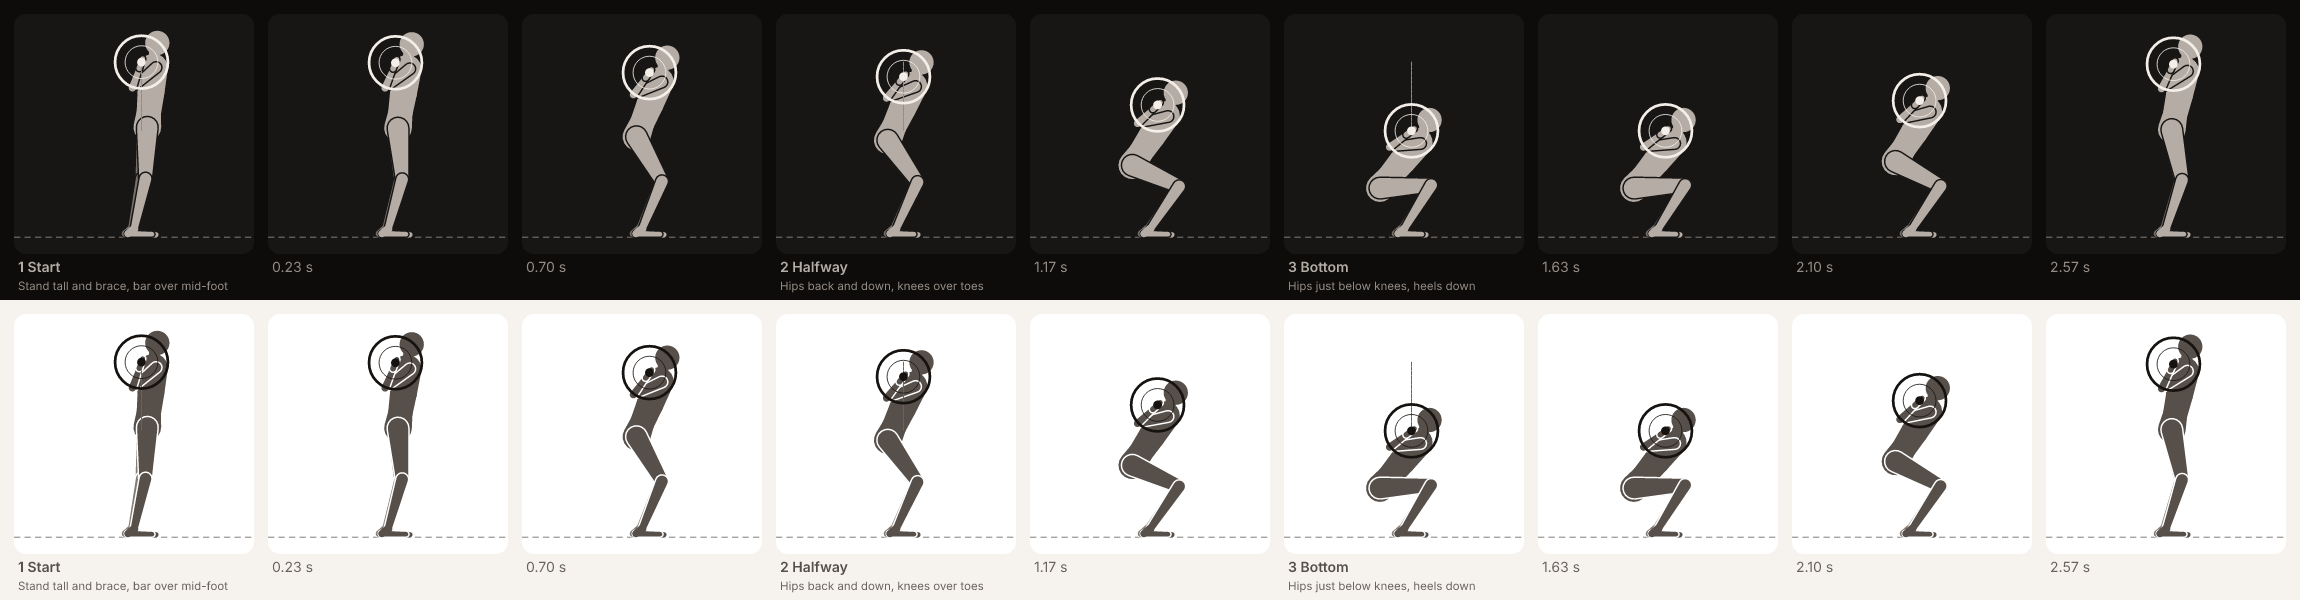
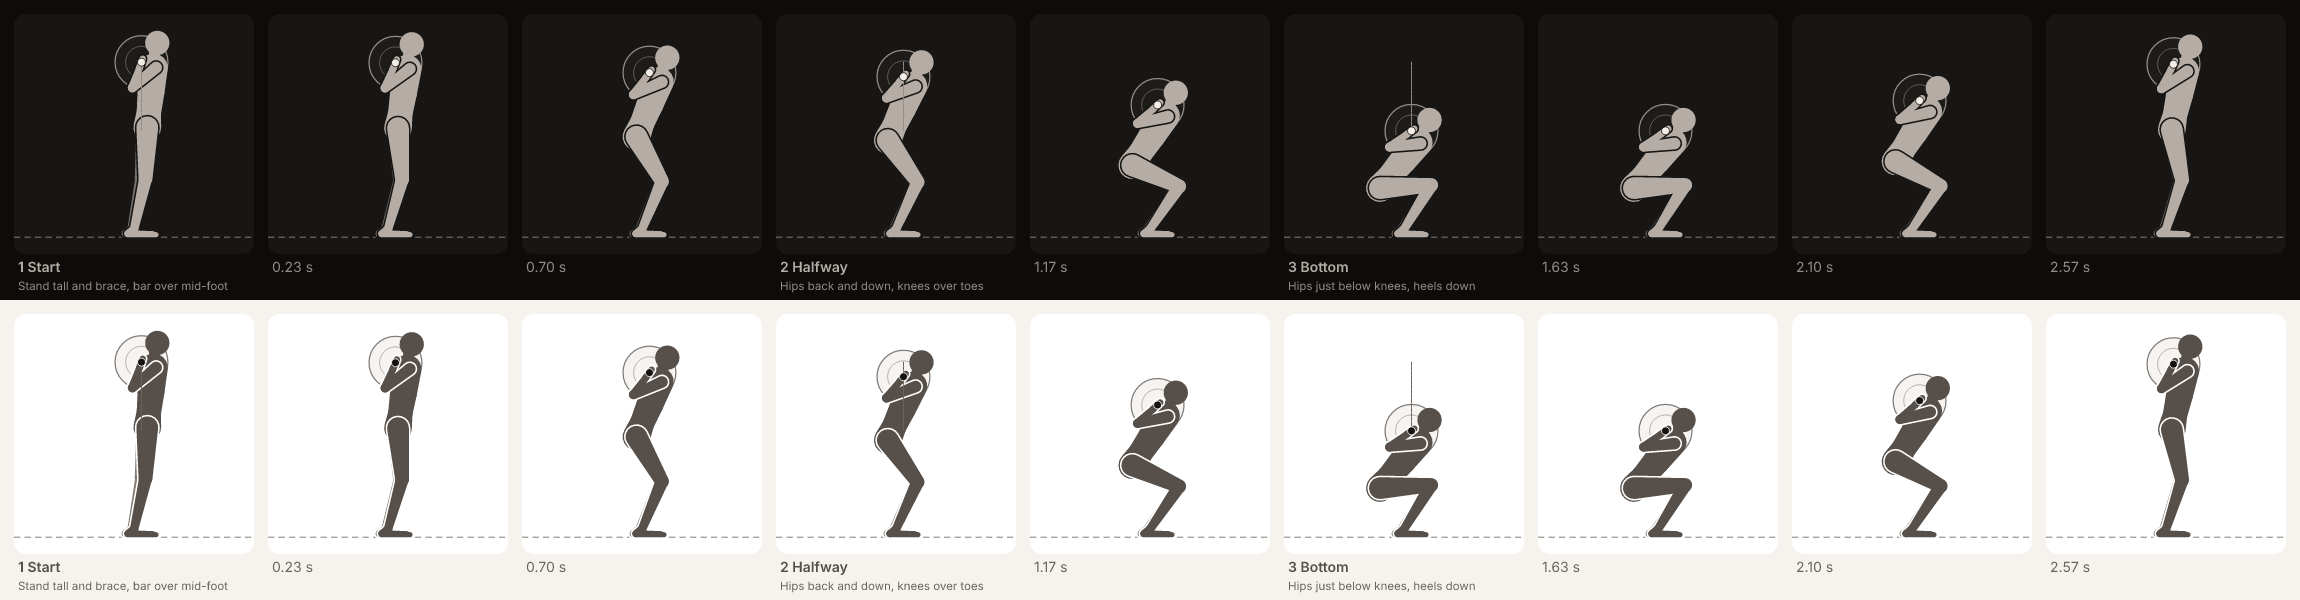
catalogue: soften barbell plates and draw limbs as seamless silhouettes
Side-view plates move behind the body as a soft disc and thin ring so the
head, arms and grip read at thumbnail size; the bar end stays in front.
Limb capsules share a group and draw all halos before fills, so joints
show no seams. Shared STROKE weights keep line widths consistent.
Re-rendered the back-squat preview.

Claude-Session: https://claude.ai/code/session_01WQGwPu3Uq9qS169xjbbsDx

diff --git a/packages/catalogue/src/figure/svg.ts b/packages/catalogue/src/figure/svg.ts
@@ -8,7 +8,7 @@ import type { PreparedGuide } from './pose';
 import { poseAt } from './pose';
 import { sampleTimes } from './keyframes';
 import { add, dist, scale, sub, v, type Vec } from './math';
-import { LAYERS, type Shape } from './props';
+import { LAYERS, STROKE, type Shape } from './props';
 import { GUIDE_CORNER_FRACTION, type GuideStyle } from './style';
 
 /** Square camera in world units. */
@@ -74,30 +74,61 @@ function pathOf(points: readonly Vec[], closed: boolean): string {
   return points.map((p, i) => `${i === 0 ? 'M' : 'L'}${f(p.x)} ${f(p.y)}`).join('') + (closed ? 'Z' : '');
 }
 
+const opacityAttr = (o: number | undefined): string => (o === undefined || o >= 1 ? '' : ` opacity="${f(o)}"`);
+
+/** A capsule's halo: its outline grown by `STROKE.halo` in the outline paint. */
+function capsuleHalo(s: Extract<Shape, { kind: 'capsule' }>, P: (p: Vec) => Vec, k: number, style: GuideStyle): string {
+  if (!s.outline) return '';
+  const c = style[s.outline];
+  return `<path d="${pathOf(capsuleOutline(s.a, s.b, s.ra, s.rb).map(P), true)}" fill="${c}" stroke="${c}" stroke-width="${f(2 * STROKE.halo * k)}" stroke-linejoin="round"/>`;
+}
+
 function shapeSvg(s: Shape, P: (p: Vec) => Vec, k: number, style: GuideStyle): string {
   switch (s.kind) {
     case 'line': {
       const a = P(s.a);
       const b = P(s.b);
       const dash = s.dash ? ` stroke-dasharray="${s.dash.map((d) => f(d * k)).join(' ')}"` : '';
-      return `<line x1="${f(a.x)}" y1="${f(a.y)}" x2="${f(b.x)}" y2="${f(b.y)}" stroke="${style[s.paint]}" stroke-width="${f(s.width * k)}" stroke-linecap="round"${dash}/>`;
+      return `<line x1="${f(a.x)}" y1="${f(a.y)}" x2="${f(b.x)}" y2="${f(b.y)}" stroke="${style[s.paint]}" stroke-width="${f(s.width * k)}" stroke-linecap="round"${dash}${opacityAttr(s.opacity)}/>`;
     }
     case 'circle': {
       const c = P(s.c);
       const fill = s.fill ? style[s.fill] : 'none';
-      const stroke = s.stroke ? ` stroke="${style[s.stroke]}" stroke-width="${f((s.width ?? 0.005) * k)}"` : '';
-      return `<circle cx="${f(c.x)}" cy="${f(c.y)}" r="${f(s.r * k)}" fill="${fill}"${stroke}/>`;
+      const stroke = s.stroke ? ` stroke="${style[s.stroke]}" stroke-width="${f((s.width ?? STROKE.edge) * k)}"` : '';
+      return `<circle cx="${f(c.x)}" cy="${f(c.y)}" r="${f(s.r * k)}" fill="${fill}"${stroke}${opacityAttr(s.opacity)}/>`;
     }
     case 'poly': {
       const fill = s.fill ? style[s.fill] : 'none';
-      const stroke = s.stroke ? ` stroke="${style[s.stroke]}" stroke-width="${f((s.width ?? 0.005) * k)}" stroke-linejoin="round"` : '';
-      return `<path d="${pathOf(s.points.map(P), true)}" fill="${fill}"${stroke}/>`;
+      const stroke = s.stroke ? ` stroke="${style[s.stroke]}" stroke-width="${f((s.width ?? STROKE.edge) * k)}" stroke-linejoin="round"` : '';
+      return `<path d="${pathOf(s.points.map(P), true)}" fill="${fill}"${stroke}${opacityAttr(s.opacity)}/>`;
     }
-    case 'capsule': {
-      const outline = s.outline ? ` stroke="${style[s.outline]}" stroke-width="${f(0.007 * k)}" stroke-linejoin="round"` : '';
-      return `<path d="${pathOf(capsuleOutline(s.a, s.b, s.ra, s.rb).map(P), true)}" fill="${style[s.paint]}"${outline}/>`;
+    case 'capsule':
+      return `<path d="${pathOf(capsuleOutline(s.a, s.b, s.ra, s.rb).map(P), true)}" fill="${style[s.paint]}"/>`;
+  }
+}
+
+/**
+ * Shapes of one layer in draw order. A capsule group (one limb) is drawn
+ * where its first capsule appears: all of its halos, then all of its fills,
+ * so the limb reads as one smooth silhouette with no seams at the joints.
+ */
+function layerSvg(shapes: readonly Shape[], P: (p: Vec) => Vec, k: number, style: GuideStyle): string[] {
+  const out: string[] = [];
+  const done = new Set<string>();
+  for (const s of shapes) {
+    if (s.kind === 'capsule' && s.group !== undefined) {
+      if (done.has(s.group)) continue;
+      done.add(s.group);
+      const members = shapes.filter((m): m is Extract<Shape, { kind: 'capsule' }> => m.kind === 'capsule' && m.group === s.group);
+      for (const m of members) out.push(capsuleHalo(m, P, k, style));
+      for (const m of members) out.push(shapeSvg(m, P, k, style));
+    } else if (s.kind === 'capsule') {
+      out.push(capsuleHalo(s, P, k, style), shapeSvg(s, P, k, style));
+    } else {
+      out.push(shapeSvg(s, P, k, style));
     }
   }
+  return out.filter((x) => x !== '');
 }
 
 /** Frame content in pixel coordinates (0..px), without the `<svg>` wrapper. */
@@ -116,14 +147,14 @@ export function renderFrameBody(pose: Pose, opts: RenderOptions): string {
   const dash = FLOOR_DASH;
   const shift = ((((pose.facing === 'left' ? -offset : offset) % dash) + dash) % dash) * k;
   parts.push(
-    `<line x1="${f(-dash * k + shift)}" y1="${f(floorY)}" x2="${f(px + dash * k)}" y2="${f(floorY)}" stroke="${style.trace}" stroke-width="${f(0.004 * k)}" stroke-dasharray="${f(dash * 0.6 * k)} ${f(dash * 0.4 * k)}"/>`,
+    `<line x1="${f(-dash * k + shift)}" y1="${f(floorY)}" x2="${f(px + dash * k)}" y2="${f(floorY)}" stroke="${style.trace}" stroke-width="${f(STROKE.hair * k)}" stroke-dasharray="${f(dash * 0.6 * k)} ${f(dash * 0.4 * k)}"/>`,
   );
   for (const layer of LAYERS) {
     // The static path overlay sits above the body and below front implements, so it stays visible.
     if (layer === 'front' && opts.trace && opts.trace.length > 1) {
       parts.push(`<path d="${pathOf(opts.trace.map(P), false)}" fill="none" stroke="${style.trace}" stroke-width="${f(0.005 * k)}" stroke-dasharray="${f(0.012 * k)} ${f(0.01 * k)}" stroke-linecap="round"/>`);
     }
-    for (const s of pose.shapes) if (s.layer === layer) parts.push(shapeSvg(s, P, k, style));
+    parts.push(...layerSvg(pose.shapes.filter((s) => s.layer === layer), P, k, style));
   }
   parts.push('</g>');
   return parts.join('');

diff --git a/packages/catalogue/src/figure/props.ts b/packages/catalogue/src/figure/props.ts
@@ -12,12 +12,32 @@ export type Paint = 'implement' | 'frame' | 'frameFill' | 'trace' | 'cable' | 'n
 export const LAYERS = ['back', 'far', 'mid', 'body', 'near', 'front'] as const;
 export type Layer = (typeof LAYERS)[number];
 
+/**
+ * Stroke weights in body heights, shared by every prop and the body so line
+ * weights stay consistent across guides.
+ */
+export const STROKE = {
+  /** Knock-out halo around a limb silhouette (drawn outside its edge). */
+  halo: 0.0075,
+  /** Outlines of pads, frames and plates. */
+  edge: 0.006,
+  /** Fine detail: plate hubs, floor, cable. */
+  hair: 0.004,
+  /** Bars, poles and handles seen side-on. */
+  bar: 0.014,
+} as const;
+
+/** `opacity` (0–1) softens secondary detail such as plates; colours still come only from tokens. */
 export type Shape =
-  | { kind: 'line'; layer: Layer; a: Vec; b: Vec; width: number; paint: Paint; dash?: readonly number[] }
-  | { kind: 'circle'; layer: Layer; c: Vec; r: number; fill?: Paint; stroke?: Paint; width?: number }
-  | { kind: 'poly'; layer: Layer; points: readonly Vec[]; fill?: Paint; stroke?: Paint; width?: number }
-  /** Tapered capsule (two radii); `outline` knocks it out from shapes behind. */
-  | { kind: 'capsule'; layer: Layer; a: Vec; b: Vec; ra: number; rb: number; paint: Paint; outline?: Paint };
+  | { kind: 'line'; layer: Layer; a: Vec; b: Vec; width: number; paint: Paint; dash?: readonly number[]; opacity?: number }
+  | { kind: 'circle'; layer: Layer; c: Vec; r: number; fill?: Paint; stroke?: Paint; width?: number; opacity?: number }
+  | { kind: 'poly'; layer: Layer; points: readonly Vec[]; fill?: Paint; stroke?: Paint; width?: number; opacity?: number }
+  /**
+   * Tapered capsule (two radii); `outline` knocks it out from shapes behind
+   * with a halo. Capsules sharing a `group` (one limb) are drawn as one
+   * silhouette: every halo first, then every fill, so joints show no seams.
+   */
+  | { kind: 'capsule'; layer: Layer; a: Vec; b: Vec; ra: number; rb: number; paint: Paint; outline?: Paint; group?: string };
 
 export interface Collider {
   propId: string;
@@ -60,14 +80,20 @@ export function frontBarbellShapes(id: string, c: Vec, plates: keyof typeof PLAT
   return { id, shapes, colliders: [], solidBottoms: r > 0 ? [c.y - r] : [] };
 }
 
+/**
+ * Side-view barbell: the bar end-on (a solid dot, in front of everything) and
+ * its plates. The plates are drawn *behind* the body as a soft disc with a
+ * thin ring, so the head, arms and grip stay readable at thumbnail size; the
+ * bar dot still shows exactly where the bar sits.
+ */
 export function barbellShapes(id: string, c: Vec, plates: keyof typeof PLATE_RADIUS): PropGeometry {
   const r = PLATE_RADIUS[plates];
   const shapes: Shape[] = [];
   if (r > 0) {
-    shapes.push({ kind: 'circle', layer: 'front', c, r, stroke: 'implement', width: 0.013 });
-    shapes.push({ kind: 'circle', layer: 'front', c, r: r * 0.62, stroke: 'implement', width: 0.004 });
+    shapes.push({ kind: 'circle', layer: 'back', c, r, fill: 'frameFill', stroke: 'implement', width: STROKE.edge, opacity: 0.55 });
+    shapes.push({ kind: 'circle', layer: 'back', c, r: r * 0.6, stroke: 'implement', width: STROKE.hair, opacity: 0.35 });
   }
-  shapes.push({ kind: 'circle', layer: 'front', c, r: 0.021, fill: 'implement' });
+  shapes.push({ kind: 'circle', layer: 'front', c, r: 0.019, fill: 'implement', stroke: 'background', width: STROKE.hair });
   return { id, shapes, colliders: [], solidBottoms: r > 0 ? [c.y - r] : [] };
 }
 

diff --git a/packages/catalogue/src/figure/pose.ts b/packages/catalogue/src/figure/pose.ts
@@ -304,18 +304,20 @@ export function poseAt(prepared: PreparedGuide, t: number): Pose {
     const layer = view === 'side' && side === 'Far' ? 'far' : 'near';
     const paint = layer === 'far' ? 'farBody' : 'nearBody';
     const rr = R.radius;
-    shapes.push({ kind: 'capsule', layer, a: hipPt, b: knee, ra: rr.thighHip, rb: rr.thighKnee, paint, outline: 'background' });
-    shapes.push({ kind: 'capsule', layer, a: knee, b: ankle, ra: rr.shankKnee, rb: rr.shankAnkle, paint, outline: 'background' });
+    const group = `leg${side}`;
+    const limbCap = (a: Vec, b: Vec, ra: number, rb: number): Shape => ({ kind: 'capsule', layer, a, b, ra, rb, paint, outline: 'background', group });
+    shapes.push(limbCap(hipPt, knee, rr.thighHip, rr.thighKnee));
+    shapes.push(limbCap(knee, ankle, rr.shankKnee, rr.shankAnkle));
     if (view === 'side') {
       const heelTop = inFoot(ankle, u, n, R.foot.heel + 0.012, -R.foot.ankleHeight + rr.foot);
       const ballTop = inFoot(ankle, u, n, R.foot.ball, -R.foot.ankleHeight + rr.foot * 0.85);
       const toeDir = scale(sub(toe, ball), 1 / Math.max(1e-9, dist(toe, ball)));
       const toeTop = add(add(toe, scale(toeDir, -rr.foot * 0.5)), scale(perpCcw(toeDir), Math.sign(toeDir.x || 1) * rr.foot * 0.7));
-      shapes.push({ kind: 'capsule', layer, a: ballTop, b: toeTop, ra: rr.foot * 0.85, rb: rr.foot * 0.7, paint });
-      shapes.push({ kind: 'capsule', layer, a: heelTop, b: ballTop, ra: rr.foot, rb: rr.foot * 0.85, paint, outline: 'background' });
-      shapes.push({ kind: 'capsule', layer, a: ankle, b: heelTop, ra: rr.shankAnkle, rb: rr.foot, paint });
+      shapes.push(limbCap(ballTop, toeTop, rr.foot * 0.85, rr.foot * 0.7));
+      shapes.push(limbCap(heelTop, ballTop, rr.foot, rr.foot * 0.85));
+      shapes.push(limbCap(ankle, heelTop, rr.shankAnkle, rr.foot));
     } else {
-      shapes.push({ kind: 'capsule', layer, a: ankle, b: add(ankle, v(0.012 * sign, -R.foot.ankleHeight + rr.foot)), ra: rr.shankAnkle, rb: rr.foot * 1.4, paint, outline: 'background' });
+      shapes.push(limbCap(ankle, add(ankle, v(0.012 * sign, -R.foot.ankleHeight + rr.foot)), rr.shankAnkle, rr.foot * 1.4));
     }
   }
 
@@ -367,9 +369,10 @@ export function poseAt(prepared: PreparedGuide, t: number): Pose {
     const rr = R.radius;
     const gripDir = scale(sub(grip, wrist), 1 / Math.max(1e-9, dist(grip, wrist)));
     const handEnd = add(grip, scale(gripDir, (R.hand - R.grip) * kf));
-    shapes.push({ kind: 'capsule', layer, a: shoulder, b: elbow, ra: rr.upperArmShoulder, rb: rr.upperArmElbow, paint, outline: 'background' });
-    shapes.push({ kind: 'capsule', layer, a: elbow, b: wrist, ra: rr.forearmElbow, rb: rr.forearmWrist, paint, outline: 'background' });
-    shapes.push({ kind: 'capsule', layer, a: wrist, b: handEnd, ra: rr.hand, rb: rr.hand * 0.9, paint, outline: 'background' });
+    const group = `arm${side}`;
+    shapes.push({ kind: 'capsule', layer, a: shoulder, b: elbow, ra: rr.upperArmShoulder, rb: rr.upperArmElbow, paint, outline: 'background', group });
+    shapes.push({ kind: 'capsule', layer, a: elbow, b: wrist, ra: rr.forearmElbow, rb: rr.forearmWrist, paint, outline: 'background', group });
+    shapes.push({ kind: 'capsule', layer, a: wrist, b: handEnd, ra: rr.hand, rb: rr.hand * 0.9, paint, outline: 'background', group });
   }
 
   // 4. Props that hang from the hands, and the cable.

diff --git a/packages/catalogue/test/figure.test.ts b/packages/catalogue/test/figure.test.ts
@@ -347,6 +347,17 @@ describe('SVG output and style', () => {
     expect(a.includes('<text')).toBe(false);
   });
 
+  it('draws side-view plates behind the body and each limb as one seamless group', () => {
+    const pose = poseAt(prepareGuide(squatEntryGuide()), 0);
+    const plates = pose.shapes.filter((s) => s.kind === 'circle' && s.r > 0.07);
+    expect(plates.length).toBeGreaterThan(0);
+    expect(plates.every((s) => s.layer === 'back')).toBe(true);
+    const limbs = pose.shapes.filter((s) => s.kind === 'capsule' && s.layer !== 'body');
+    expect(limbs.every((s) => s.kind === 'capsule' && s.group !== undefined && s.outline === 'background')).toBe(true);
+    const svg = renderSvg(pose, { px: 240, style, camera: fitCamera(prepareGuide(squatEntryGuide())) });
+    expect(svg).toContain('opacity="0.55"');
+  });
+
   it('mirrors when facing left', () => {
     const g = squatEntryGuide();
     const right = prepareGuide(g);
